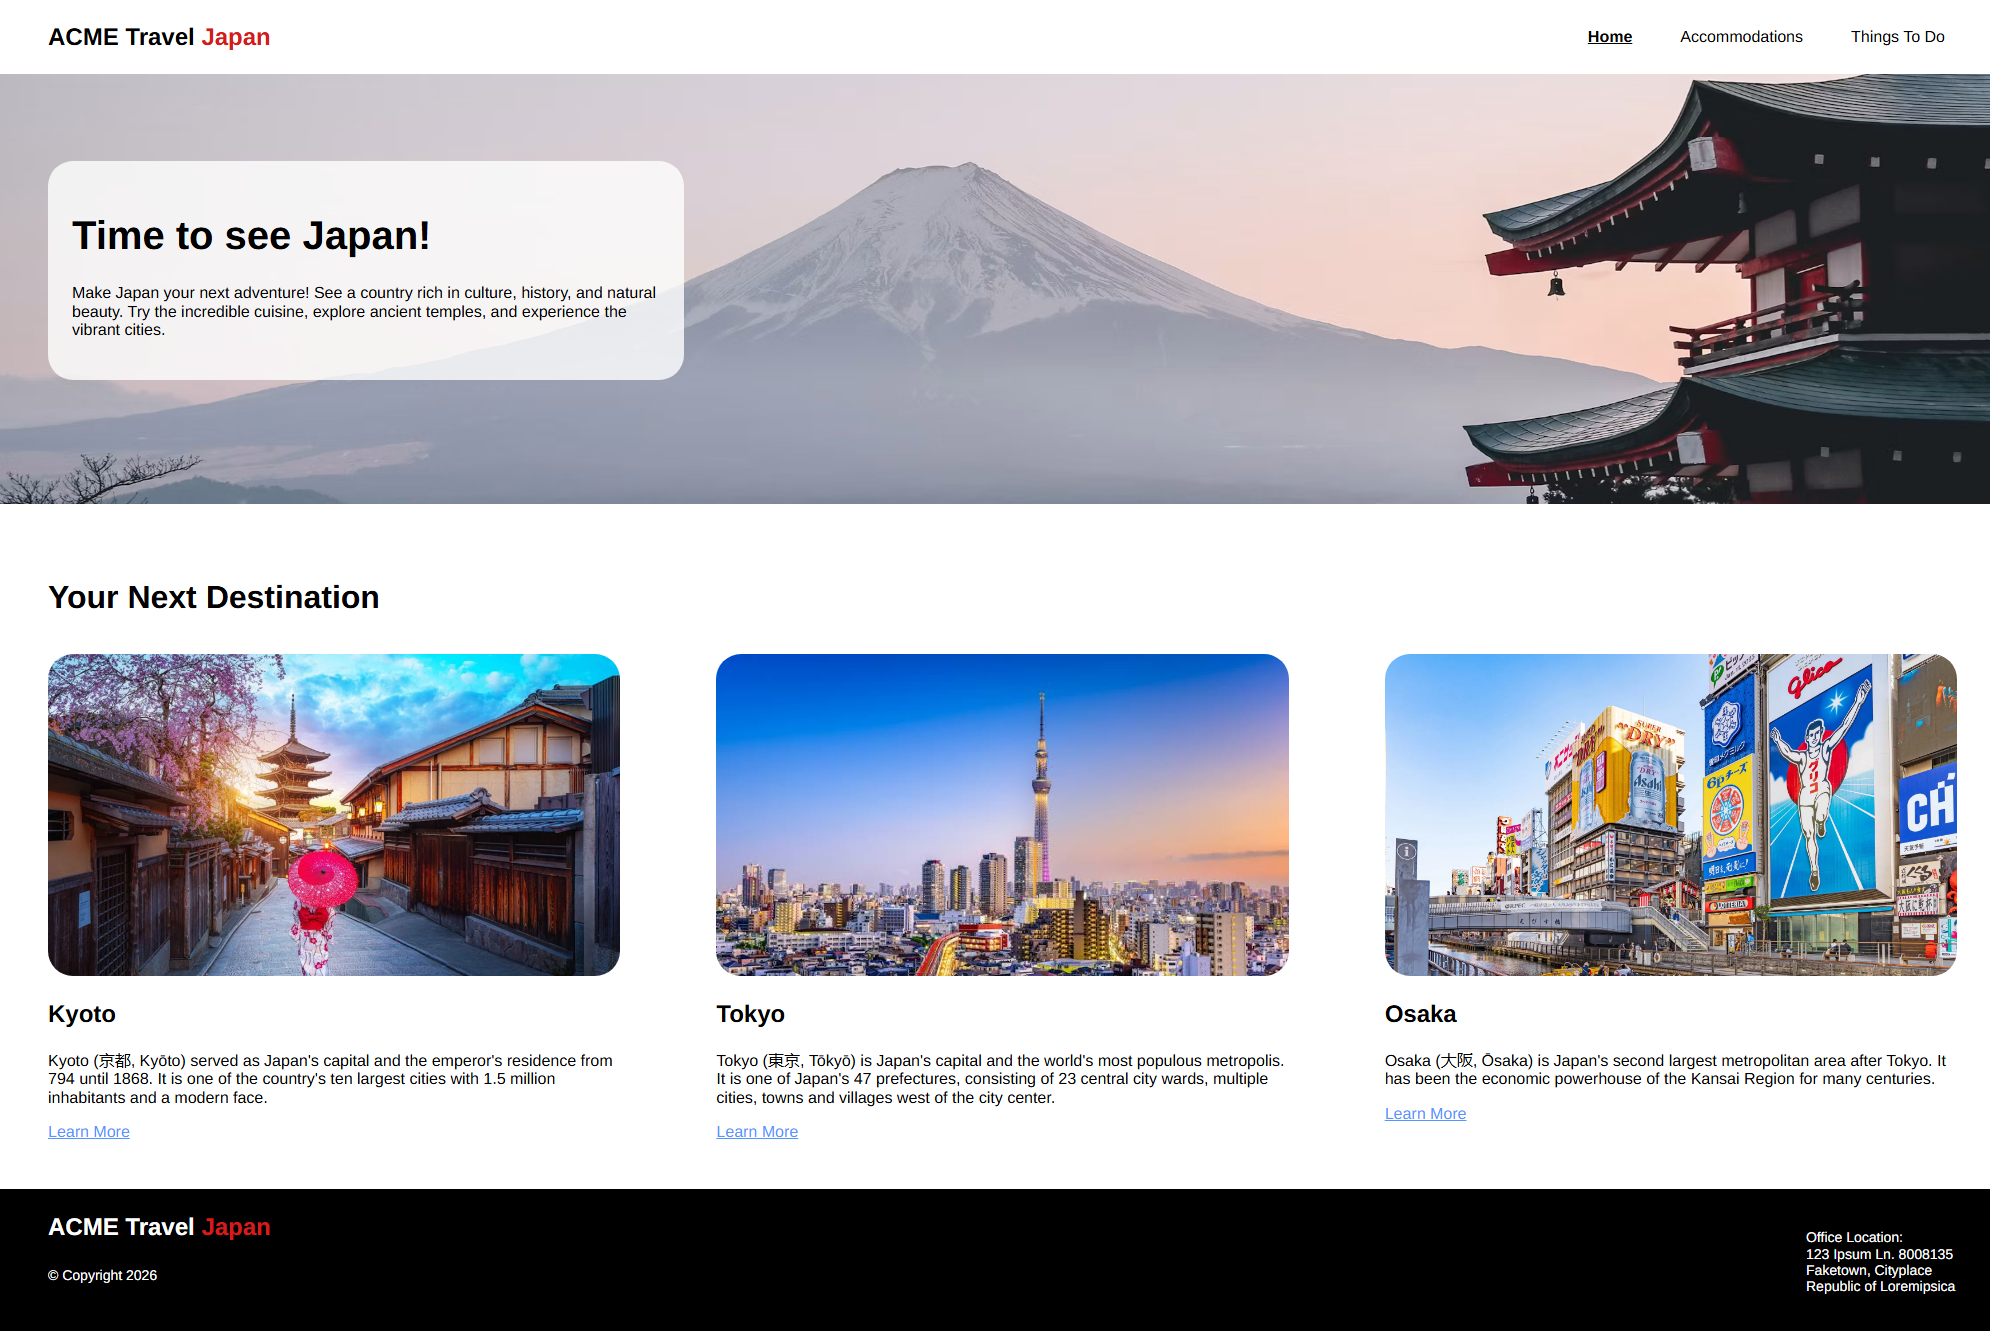
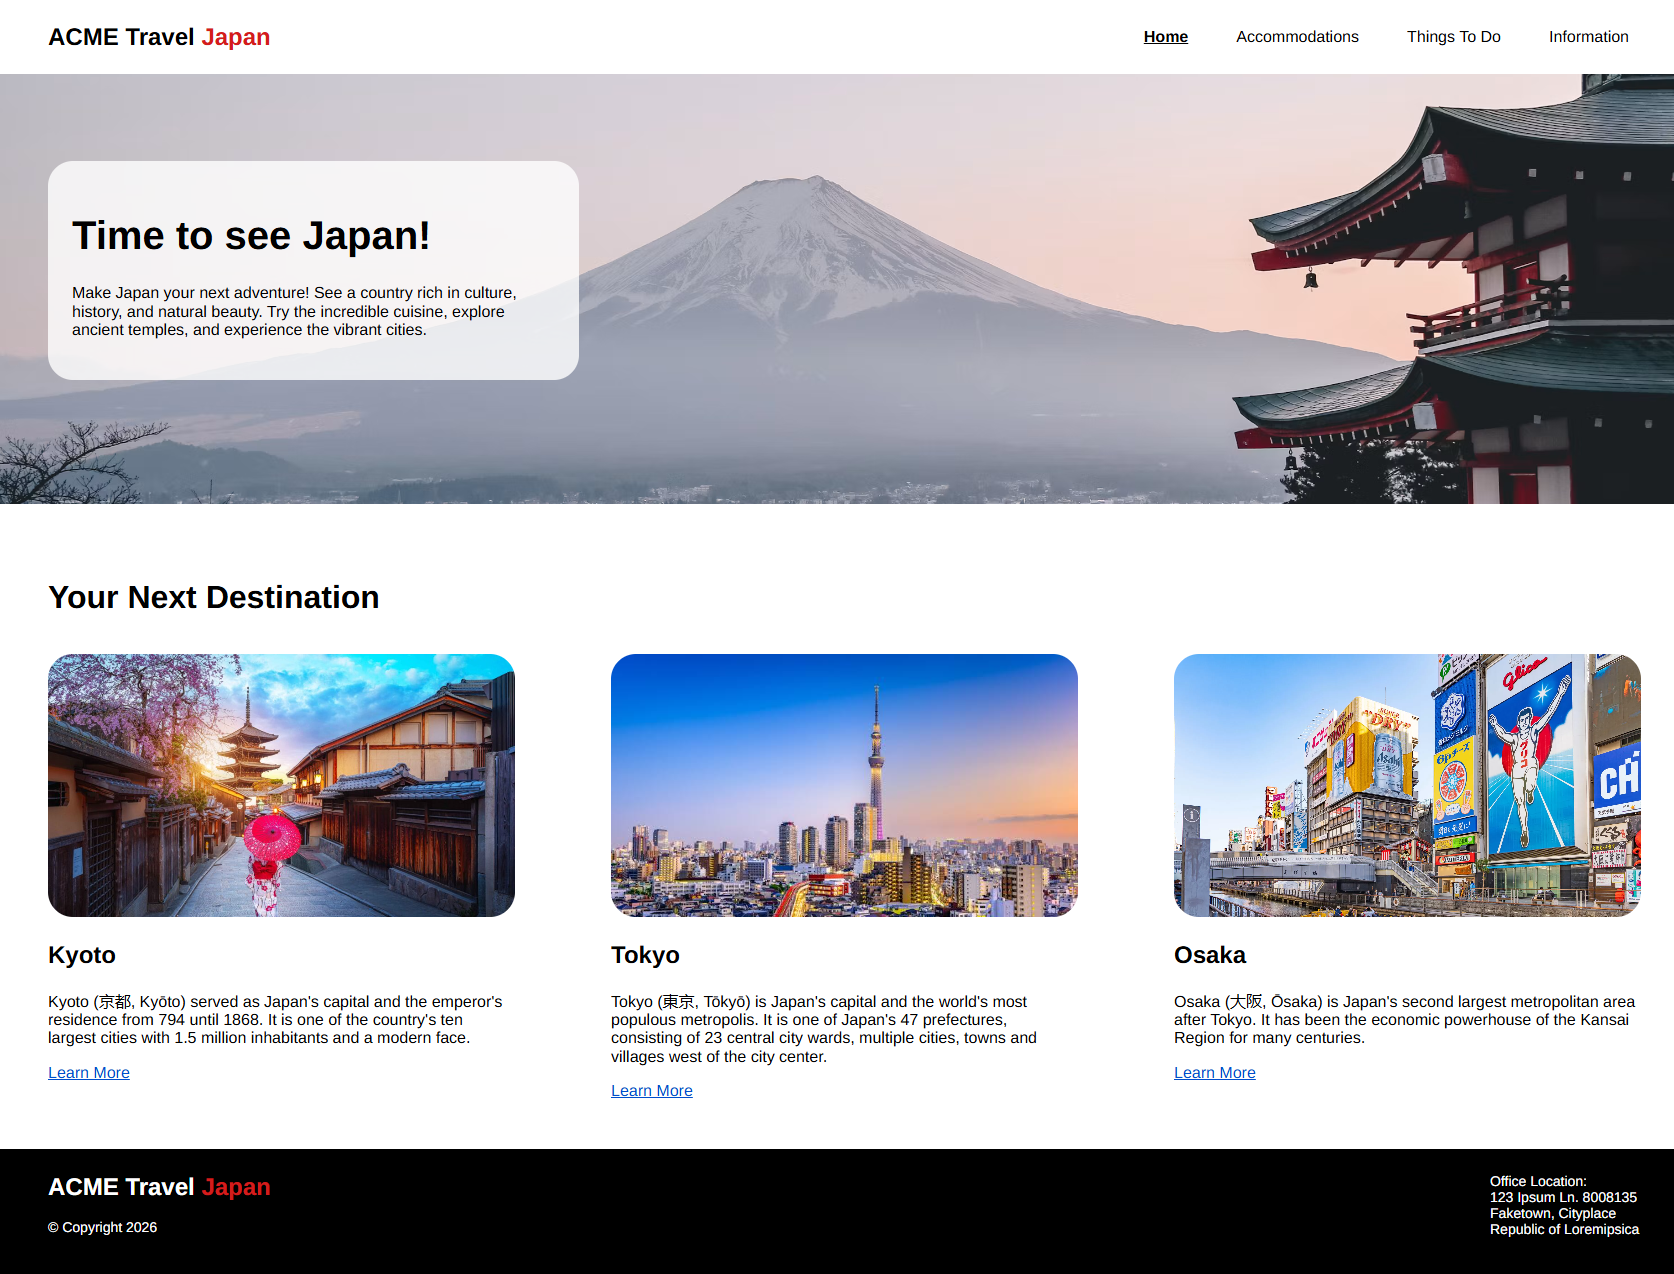
REVISIONS: latest > featured projects, footer links removed actual link text, adjusted footer position on short pages, added new project, removed extra nav indentation

diff --git a/layout.css b/layout.css
@@ -13,10 +13,22 @@ body {
     margin: 0 8rem;
 }
 
+body.short-page,
+body.experience-page {
+    display: flex;
+    flex-direction: column;
+    min-height: 100vh;
+}
+
+body.short-page main,
+body.experience-page main {
+    flex: 1;
+    align-content: start;
+}
+
 #topnav ul {
     display: flex;
     justify-content: flex-end;
-    margin-right: 10rem;
 }
 
 #topnav ul li {
@@ -110,14 +122,14 @@ main {
 
 #project2 {
     background-image: linear-gradient(rgba(0, 0, 0, 0.5), rgba(0, 0, 0, 0.5)),
-    url(https://placehold.co/800x800?text=Project2+Image);
+    url(simpack.png);
     background-size: cover;
     background-position: center;
 }
 
 #project2:hover {
     background-image: linear-gradient(rgba(0, 0, 0, 0.2), rgba(0, 0, 0, 0.2)),
-    url(https://placehold.co/800x800?text=Project2+Image);
+    url(simpack.png);
     box-shadow: 0px 0px 12px #1c88e0;
 }
 
@@ -171,6 +183,11 @@ footer {
     justify-content: space-between;
     align-items: center;
     margin: 0;
+}
+
+#links {
+    display: flex;
+    gap: 4rem;
 }
 
 /* ------------------------------------------ Projects Page ------------------------------------------ */
@@ -280,6 +297,9 @@ footer {
 }
 
 /* ------------------------------------------ Experience Page ------------------------------------------ */
+#experiencePage {
+    grid-template-rows: auto 1fr;
+}
 
 #experiencePage > #hero {
     grid-column: 1 / -1;

diff --git a/index.html b/index.html
@@ -42,7 +42,7 @@
         </section>
 
         <article id="recentProjects">
-            <h2>MOST RECENT PROJECTS</h2>
+            <h2>FEATURED PROJECTS</h2>
 
             <div class="project" id="project1">
                 <h2>MOCK TRAVEL SITE</h2>
@@ -55,7 +55,7 @@
             </div>
 
             <div class="project" id="project2">
-                <h2>PROJECT TITLE</h2>
+                <h2>MTG PACK OPENING</h2>
                 <div class="project-tags">
                     <span class="jstag">JAVASCRIPT</span>
                     <span class="htmltag">HTML</span>
@@ -98,9 +98,12 @@
 
     <footer>
         <p>Designed and Coded by Jordan Busch</p>
-        <a href="mailto:buschjordan1@gmail.com">Email: buschjordan1@gmail.com</a>
-        <a href="https://www.linkedin.com/in/jordan-busch-498369109">LinkedIn: www.linkedin.com/in/jordan-busch-498369109</a>
-        <a href="https://github.com/jordanbusch">GitHub: github.com/jordanbusch</a>
+        <div id="links">
+            <a href="mailto:buschjordan1@gmail.com">Email</a>
+            <a href="https://www.linkedin.com/in/jordan-busch-498369109">LinkedIn</a>
+            <a href="https://github.com/jordanbusch">GitHub</a>
+        </div>
+
     </footer>
 
 </body>

diff --git a/projects.html b/projects.html
@@ -38,7 +38,7 @@
         </section>
 
         <article id="recentProjects">
-            <h2>MOST RECENT PROJECTS</h2>
+            <h2>FEATURED PROJECTS</h2>
 
             <div class="project" id="project1">
                 <h2>MOCK TRAVEL SITE</h2>
@@ -51,7 +51,7 @@
             </div>
 
             <div class="project" id="project2">
-                <h2>PROJECT TITLE</h2>
+                <h2>MTG PACK OPENING</h2>
                 <div class="project-tags">
                     <span class="jstag">JAVASCRIPT</span>
                     <span class="htmltag">HTML</span>
@@ -142,9 +142,11 @@
 
     <footer>
         <p>Designed and Coded by Jordan Busch</p>
-        <a href="mailto:buschjordan1@gmail.com">Email: buschjordan1@gmail.com</a>
-        <a href="https://www.linkedin.com/in/jordan-busch-498369109">LinkedIn: www.linkedin.com/in/jordan-busch-498369109</a>
-        <a href="https://github.com/jordanbusch">GitHub: github.com/jordanbusch</a>
+        <div id="links">
+            <a href="mailto:buschjordan1@gmail.com">Email</a>
+            <a href="https://www.linkedin.com/in/jordan-busch-498369109">LinkedIn</a>
+            <a href="https://github.com/jordanbusch">GitHub</a>
+        </div>
     </footer>
 
 </body>

diff --git a/experience.html b/experience.html
@@ -11,7 +11,7 @@
     <script src="navigation.js" defer></script>
 </head>
 
-<body>
+<body class="experience-page">
    
     <header>
         <div id="logo">
@@ -105,9 +105,11 @@
 
     <footer>
         <p>Designed and Coded by Jordan Busch</p>
-        <a href="mailto:buschjordan1@gmail.com">Email: buschjordan1@gmail.com</a>
-        <a href="https://www.linkedin.com/in/jordan-busch-498369109">LinkedIn: www.linkedin.com/in/jordan-busch-498369109</a>
-        <a href="https://github.com/jordanbusch">GitHub: github.com/jordanbusch</a>
+        <div id="links">
+            <a href="mailto:buschjordan1@gmail.com">Email</a>
+            <a href="https://www.linkedin.com/in/jordan-busch-498369109">LinkedIn</a>
+            <a href="https://github.com/jordanbusch">GitHub</a>
+        </div>
     </footer>
 
 </body>

diff --git a/about.html b/about.html
@@ -11,7 +11,7 @@
     <script src="navigation.js" defer></script>
 </head>
 
-<body>
+<body class="short-page">
    
     <header>
         <div id="logo">
@@ -51,9 +51,11 @@
 
     <footer>
         <p>Designed and Coded by Jordan Busch</p>
-        <a href="mailto:buschjordan1@gmail.com">Email: buschjordan1@gmail.com</a>
-        <a href="https://www.linkedin.com/in/jordan-busch-498369109">LinkedIn: www.linkedin.com/in/jordan-busch-498369109</a>
-        <a href="https://github.com/jordanbusch">GitHub: github.com/jordanbusch</a>
+        <div id="links">
+            <a href="mailto:buschjordan1@gmail.com">Email</a>
+            <a href="https://www.linkedin.com/in/jordan-busch-498369109">LinkedIn</a>
+            <a href="https://github.com/jordanbusch">GitHub</a>
+        </div>
     </footer>
 
 </body>

diff --git a/contact.html b/contact.html
@@ -11,7 +11,7 @@
     <script src="navigation.js" defer></script>
 </head>
 
-<body>
+<body class="short-page">
    
     <header>
         <div id="logo">
@@ -44,9 +44,11 @@
 
     <footer>
         <p>Designed and Coded by Jordan Busch</p>
-        <a href="mailto:buschjordan1@gmail.com">Email: buschjordan1@gmail.com</a>
-        <a href="https://www.linkedin.com/in/jordan-busch-498369109">LinkedIn: www.linkedin.com/in/jordan-busch-498369109</a>
-        <a href="https://github.com/jordanbusch">GitHub: github.com/jordanbusch</a>
+        <div id="links">
+            <a href="mailto:buschjordan1@gmail.com">Email</a>
+            <a href="https://www.linkedin.com/in/jordan-busch-498369109">LinkedIn</a>
+            <a href="https://github.com/jordanbusch">GitHub</a>
+        </div>
     </footer>
 
 </body>
